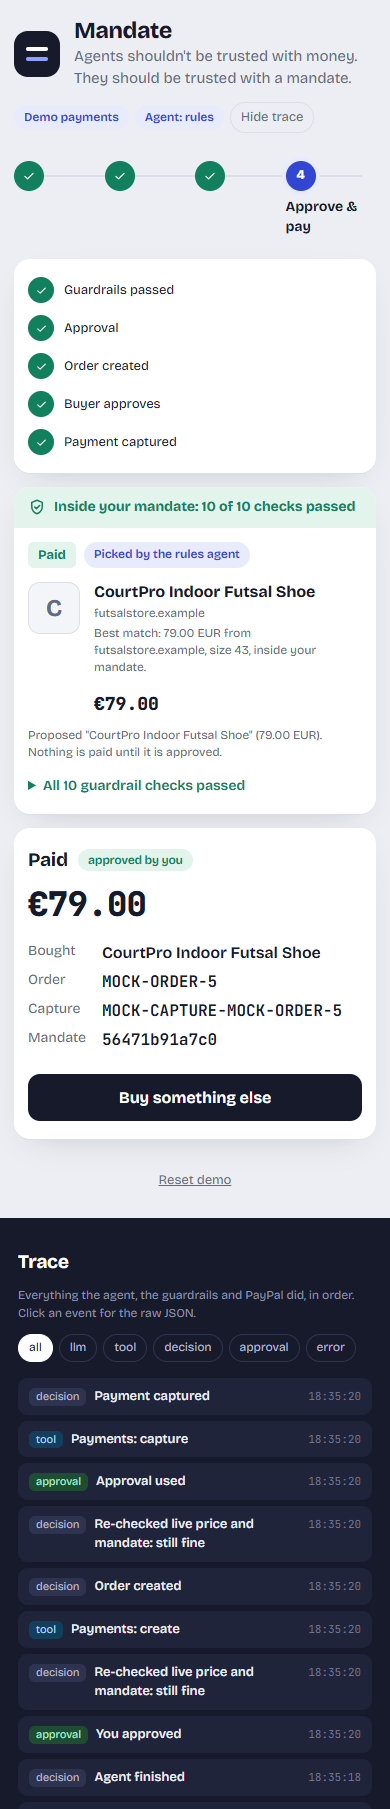
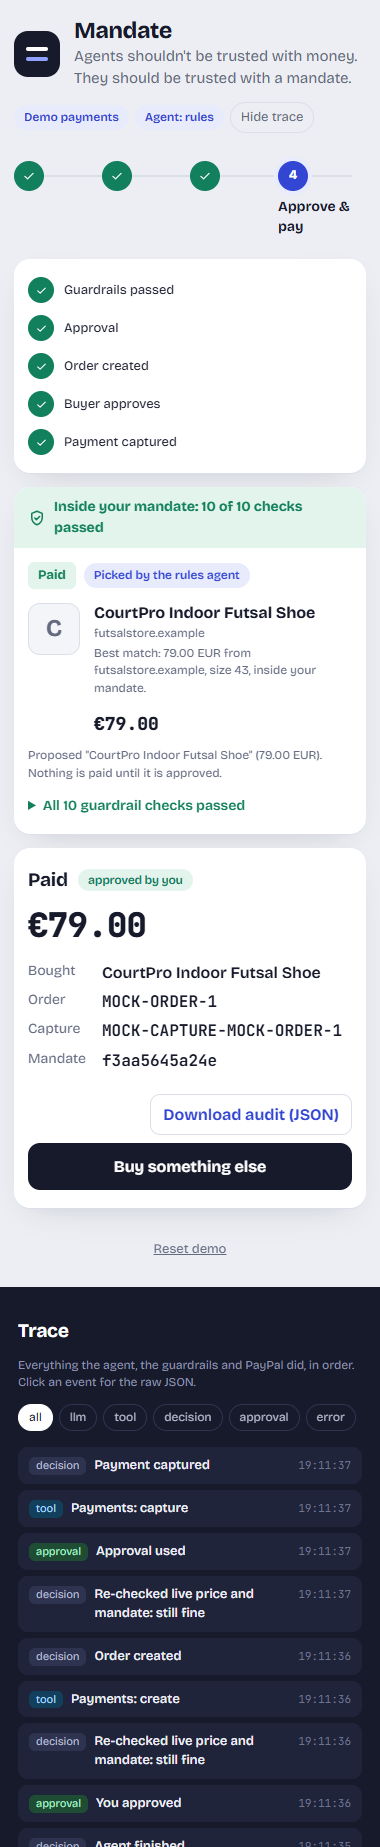
Add browser screenshot script, refresh screenshots, fix seal spacing
scripts/screenshots.ts (npm run screenshots) drives the demo flow in system
Edge via playwright-core, captures desktop/mobile shots, and checks 380px
overflow, stamp/pop/shake firing and reduced-motion.

Changed region(s): [[0.0, 0.0, 1.0, 1.0], [0.6079, 0.8977, 0.6658, 0.9596]]

diff --git a/scripts/screenshots.ts b/scripts/screenshots.ts
@@ -1,0 +1,147 @@
+/**
+ * Drives the whole web flow in a real browser (system Microsoft Edge, no download) against the demo/mock app:
+ * sign a mandate, ask, approve, pay, plus "Try an attack". Takes desktop (1280) and mobile (380) screenshots into
+ * docs/screenshots, checks for horizontal overflow at 380 px, checks that the stamp/pop/shake animations fire,
+ * and that prefers-reduced-motion leaves no running animation.
+ *
+ * Mock payments, rules agent (LLM keys are blanked), fixture catalog: no keys, no paid calls.
+ * Run: npm run build && npm run screenshots   (CHANNEL=chrome to use Chrome instead of Edge)
+ */
+import { spawn, type ChildProcess } from "node:child_process";
+import { existsSync, mkdirSync } from "node:fs";
+import { createServer } from "node:net";
+import { chromium, type Page } from "playwright-core";
+
+const OUT = "docs/screenshots";
+const VIEWPORTS = [{ name: "desktop", width: 1280, height: 900 }, { name: "mobile", width: 380, height: 800 }] as const;
+
+const freePort = () => new Promise<number>((res, rej) => {
+  const s = createServer();
+  s.listen(0, () => { const p = (s.address() as { port: number }).port; s.close(() => res(p)); });
+  s.on("error", rej);
+});
+
+function startApp(port: number): ChildProcess {
+  const blank = { GOOGLE_GENERATIVE_AI_API_KEY: "", OPENAI_API_KEY: "", ANTHROPIC_API_KEY: "", CHANNEL3_API_KEY: "", PAYPAL_CLIENT_ID: "", PAYPAL_CLIENT_SECRET: "" };
+  return spawn(process.execPath, ["--import", "tsx", "src/index.ts"], {
+    env: { ...process.env, ...blank, DEMO_MODE: "mock", CURRENCY: "EUR", PORT: String(port) }, stdio: ["ignore", "pipe", "inherit"],
+  });
+}
+
+async function waitUp(url: string) {
+  for (let i = 0; i < 60; i++) {
+    try { if ((await fetch(`${url}/api/config`)).ok) return; } catch { /* not yet */ }
+    await new Promise((r) => setTimeout(r, 500));
+  }
+  throw new Error("app did not start");
+}
+
+type Finding = { run: string; step: string; what: string };
+const findings: Finding[] = [];
+const log = (s: string) => console.log(s);
+
+async function run(browser: Awaited<ReturnType<typeof chromium.launch>>, url: string, vp: (typeof VIEWPORTS)[number], reduced: boolean) {
+  const tag = `${vp.name}${reduced ? "+reduced-motion" : ""}`;
+  const ctx = await browser.newContext({ viewport: { width: vp.width, height: vp.height }, reducedMotion: reduced ? "reduce" : "no-preference", deviceScaleFactor: 1 });
+  const page = await ctx.newPage();
+  const errors: string[] = [];
+  page.on("pageerror", (e) => errors.push(e.message));
+  page.on("console", (m) => { if (m.type() === "error") errors.push(m.text()); });
+  const anims = (p: Page) => p.evaluate(() => document.getAnimations().map((a) => (a as CSSAnimation).animationName || a.constructor.name));
+  const shot = async (name: string) => { if (!reduced) await page.screenshot({ path: `${OUT}/${vp.name}-${name}.png`, fullPage: true }); };
+  const shotEl = async (sel: string, name: string) => { if (!reduced) { await page.waitForTimeout(450); await page.locator(sel).first().screenshot({ path: `${OUT}/${vp.name}-${name}.png` }); } };
+  /** Checks run on every step once it has settled. */
+  const check = async (step: string) => {
+    await page.waitForTimeout(450);
+    const o = await page.evaluate(() => ({ sw: document.documentElement.scrollWidth, iw: window.innerWidth }));
+    const over = o.sw > o.iw;
+    log(`  [${tag}] ${step}: scrollWidth ${o.sw} / innerWidth ${o.iw}${over ? "  OVERFLOW" : ""}`);
+    if (over) findings.push({ run: tag, step, what: `horizontal overflow ${o.sw} > ${o.iw}` });
+    if (reduced) {
+      const a = await anims(page);
+      log(`  [${tag}] ${step}: running animations ${a.length}${a.length ? " " + a.join(",") : ""}`);
+      if (a.length) findings.push({ run: tag, step, what: `animations under reduced motion: ${a.join(",")}` });
+    }
+  };
+  /** Right after the action, the named flourish must be running (normal motion), and absent under reduced motion. */
+  const fires = async (step: string, name: string, selector: string) => {
+    const a = await page.evaluate((sel) => document.querySelector(sel)?.getAnimations({ subtree: true }).map((x) => (x as CSSAnimation).animationName) ?? [], selector);
+    const ok = a.includes(name);
+    log(`  [${tag}] ${step}: ${name} animation ${ok ? "running" : "not running"} (${a.join(",") || "none"})`);
+    if (!reduced && !ok) findings.push({ run: tag, step, what: `${name} did not fire` });
+    if (reduced && ok) findings.push({ run: tag, step, what: `${name} fired under reduced motion` });
+  };
+
+  await page.goto(url);
+  await page.getByRole("heading", { name: "What should it buy?" }).waitFor();
+  await check("0 form");
+  await shot("0-form");
+
+  // Draft from a sentence, review the form (existing name: 1-mandate), then sign only so the stamp shows on the Ask step.
+  await page.locator("#describe").fill("Indoor futsal shoes, size 43, non-marking sole, max 90 €");
+  await page.getByRole("button", { name: "Draft the limits" }).click();
+  await page.getByText("Here is what I understood").waitFor();
+  await page.waitForTimeout(500);
+  await check("0 drafted form");
+  await shot("1-mandate");
+
+  const signAnim = page.getByRole("button", { name: "Sign only" }).click();
+  await signAnim;
+  await page.locator(".seal.stamp, .seal").first().waitFor();
+  await fires("1 ask (just signed)", "stamp", ".seal");
+  await shotEl(".seal", "1-seal-stamp");
+  await check("1 ask");
+  await shot("1-ask");
+
+  await page.getByRole("button", { name: "Find options" }).click();
+  await page.getByRole("heading", { name: "Proposals" }).waitFor();
+  await check("2 proposal");
+  await shot("2-proposal");
+
+  await page.getByRole("button", { name: /^Review / }).first().click();
+  await page.getByRole("heading", { name: "Approve this purchase?" }).waitFor();
+  await check("3 approve");
+  await shot("3-approve");
+
+  await page.getByRole("button", { name: /^Approve / }).click();
+  await page.getByRole("button", { name: "Simulate buyer and pay" }).waitFor();
+  await check("3 order created");
+  await page.getByRole("button", { name: "Simulate buyer and pay" }).click();
+  await page.locator(".receipt").waitFor();
+  await fires("3 paid", "pop", ".receipt");
+  await shotEl(".receipt", "4-receipt");
+  await check("3 paid");
+  await shot("4-paid");
+
+  await page.getByRole("button", { name: "Buy something else" }).click();
+  await page.getByRole("button", { name: "Try an attack" }).waitFor();
+  await page.getByRole("button", { name: "Try an attack" }).click();
+  await page.locator(".verdict.bad").first().waitFor();
+  await fires("2 attack blocked", "shake", ".verdict.bad");
+  await shotEl(".pcard.blocked", "5-blocked");
+  await check("2 attack");
+  await shot("5-attack");
+
+  if (errors.length) { log(`  [${tag}] console/page errors: ${errors.join(" | ")}`); findings.push({ run: tag, step: "all", what: `console errors: ${errors.join(" | ")}` }); }
+  await ctx.close();
+}
+
+async function main() {
+  if (!existsSync("web/dist")) throw new Error("web/dist is missing: run `npm run build` first");
+  mkdirSync(OUT, { recursive: true });
+  const port = await freePort();
+  const url = `http://127.0.0.1:${port}`;
+  const app = startApp(port);
+  const browser = await chromium.launch({ channel: process.env.CHANNEL ?? "msedge" });
+  try {
+    await waitUp(url);
+    for (const vp of VIEWPORTS) for (const reduced of [false, true]) { log(`${vp.name} ${vp.width}px, reduced motion: ${reduced}`); await run(browser, url, vp, reduced); }
+  } finally {
+    await browser.close();
+    app.kill();
+  }
+  log(findings.length ? `\n${findings.length} finding(s):\n${findings.map((f) => `- [${f.run}] ${f.step}: ${f.what}`).join("\n")}` : "\nAll checks passed.");
+  process.exitCode = findings.length ? 1 : 0;
+}
+
+main().catch((e) => { console.error(e); process.exit(1); });

diff --git a/web/src/mandate.css b/web/src/mandate.css
@@ -37,6 +37,7 @@ textarea.ask { font-size: 16px; resize: vertical; margin-bottom: 10px; line-heig
 
 /* the signed mandate: the one loud element */
 .seal { margin-top: 20px; background: var(--paper); border: 1.5px solid var(--ink); border-radius: 6px; padding: 18px 20px 14px; position: relative; max-width: 520px; }
+.card > .seal:first-child { margin: 0 0 20px; }
 .seal::before { content: ""; position: absolute; inset: 4px; border: 1px dashed #b9bdcb; border-radius: 3px; pointer-events: none; }
 .seal-hash { display: flex; align-items: center; justify-content: space-between; gap: 10px; margin-bottom: 10px; position: relative; }
 .seal-title { display: inline-flex; gap: 6px; align-items: center; font-weight: 650; font-size: 14px; }
